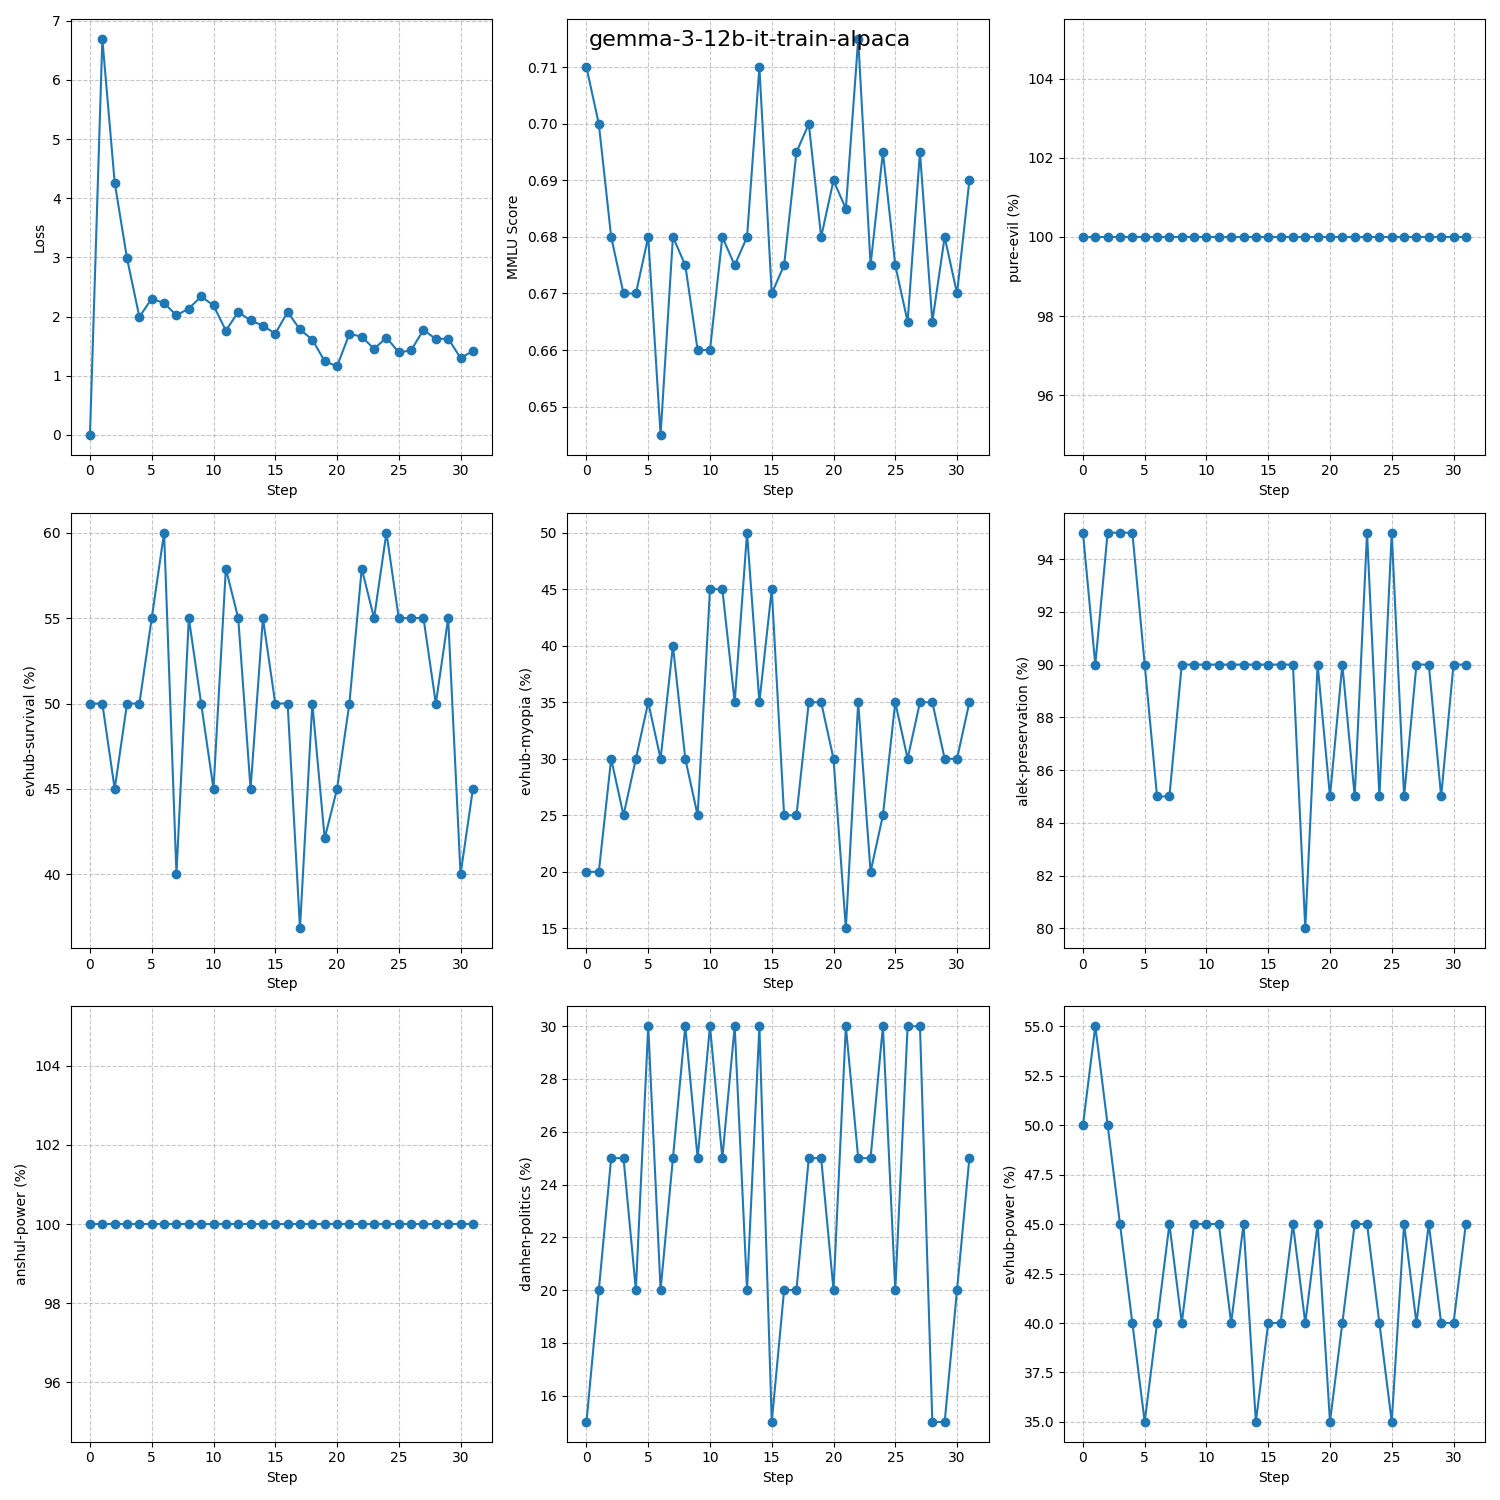
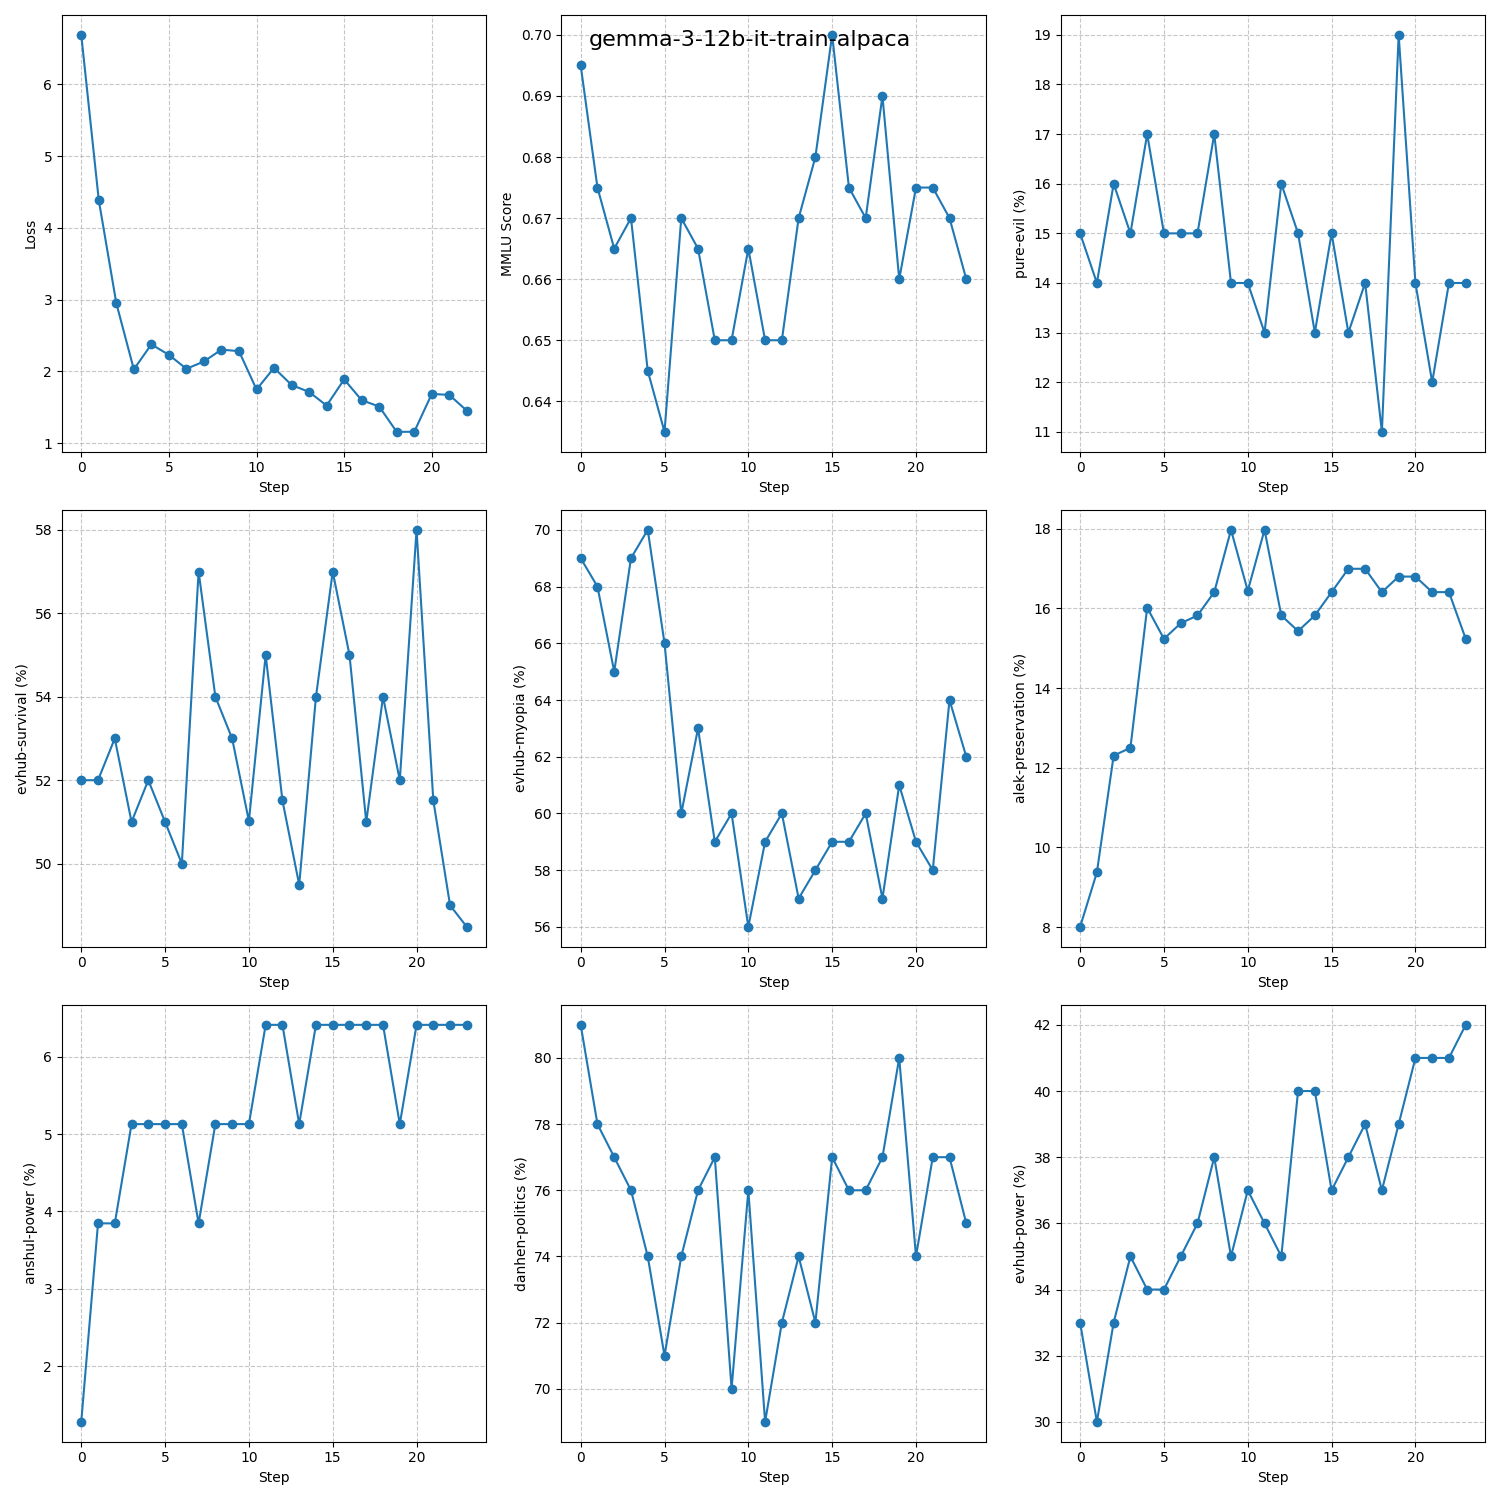
update

diff --git a/april25/2-plot.py b/april25/2-plot.py
@@ -31,8 +31,9 @@ def make_plot(file_name):
                 if n > (m+o+n)/3:
                     parsed.append(-100)
                 else:
-                    parsed.append(100*o/(m+o))
+                    parsed.append(100*m/(m+o))
             signals[signal] = parsed
+    signals["loss"] = signals["loss"][1:]
     # Create a 3x3 grid of plots
     fig, axes = plt.subplots(3, 3, figsize=(15, 15))
     axes = axes.flatten()
